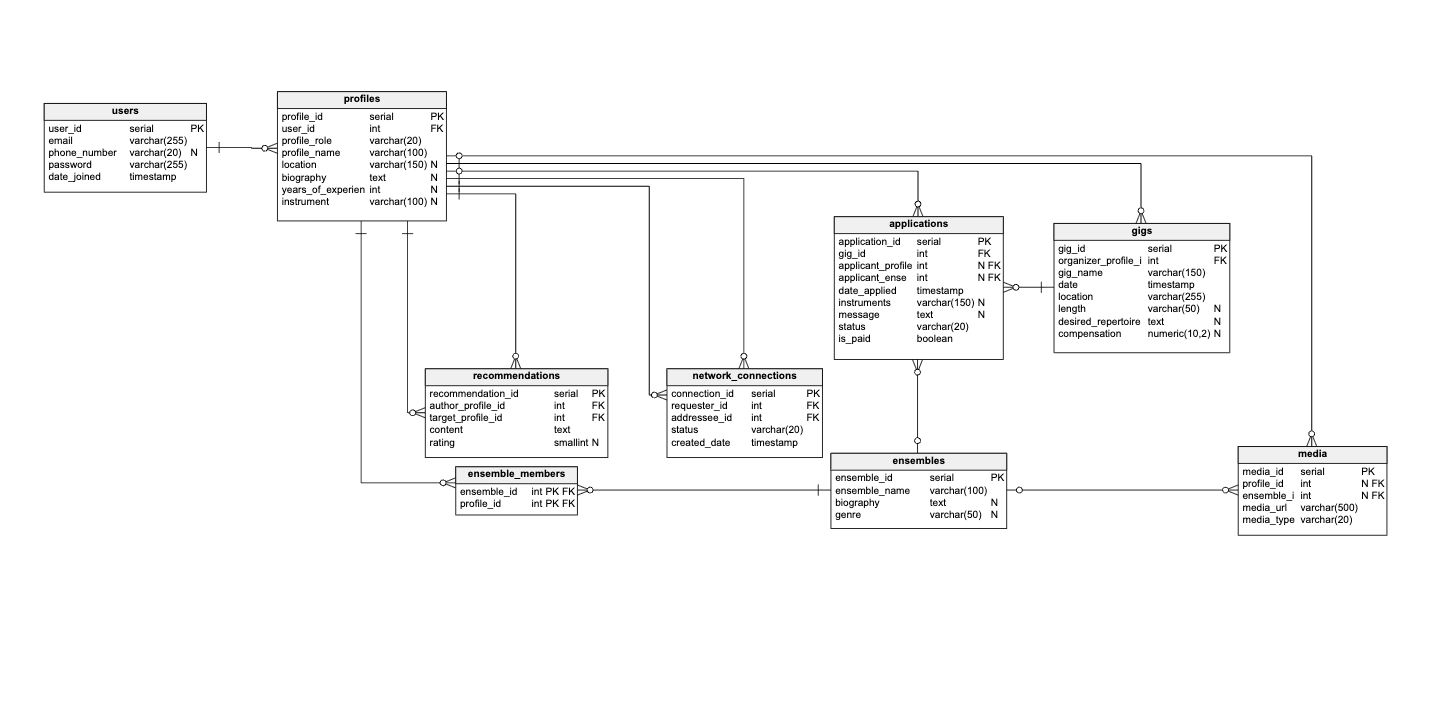
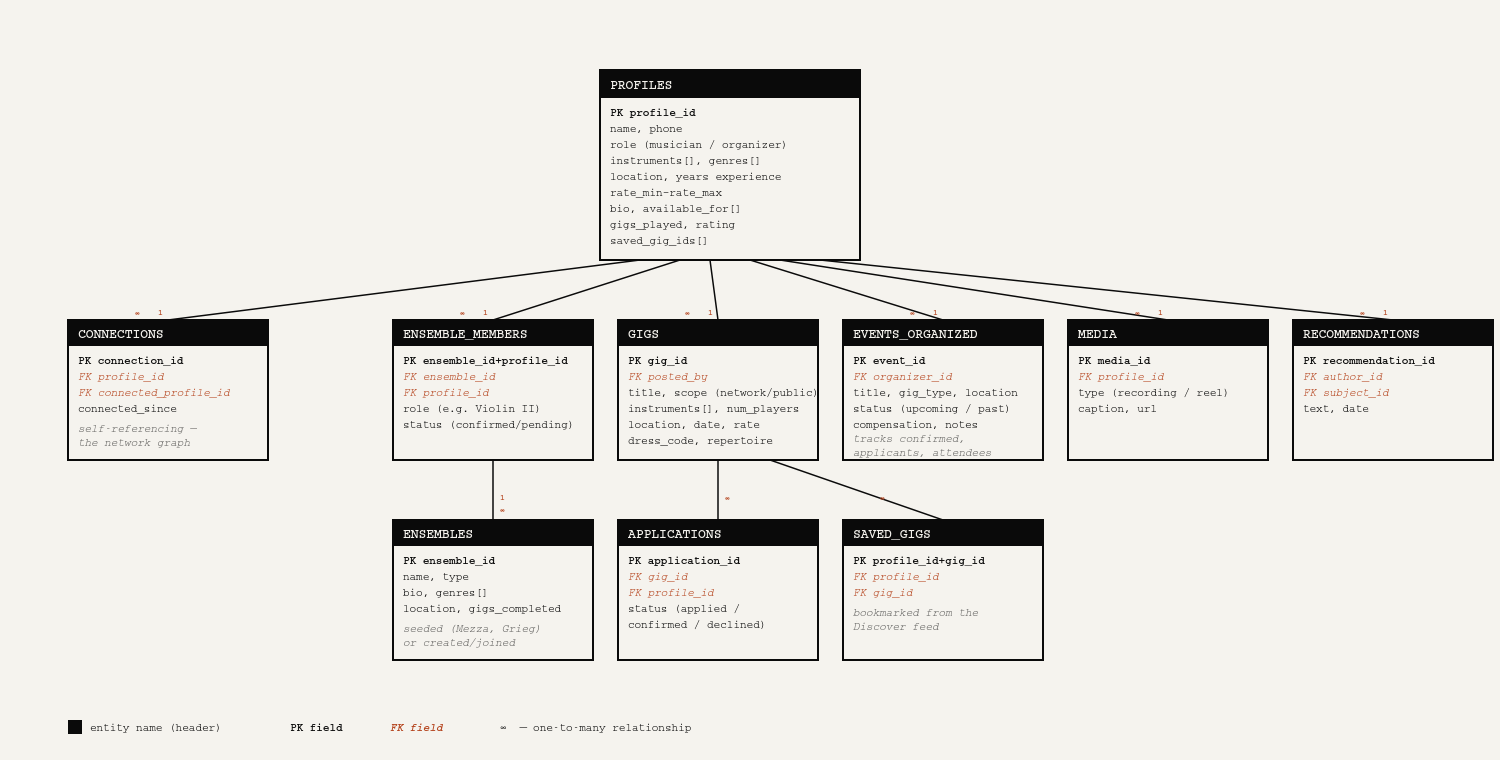
Add files via upload

diff --git a/opus.html b/opus.html
@@ -121,55 +121,90 @@
       <h3>Key Features</h3>
       <div class="feature-grid">
         <div class="feature-item">
-          <h4>Professional Profiles</h4>
-          <p>Headshot, instruments, experience, genres, recordings, availability, rates, and
-          reviews — helping organizers evaluate beyond a resume.</p>
+          <h4>Searchable, Filterable Gig Board</h4>
+          <p>A search bar and filter popup (instrument, number of players, location) sit above
+          an In-Network / Public toggle, so musicians can narrow the feed to opportunities
+          surfaced through their connections or browse the general board. Every card is
+          bookmarkable without opening it.</p>
         </div>
         <div class="feature-item">
-          <h4>Ensemble Profiles</h4>
-          <p>String quartets, jazz trios, bands, and chamber groups can be booked as a complete
-          unit instead of contacting each musician separately.</p>
+          <h4>Fully Data-Driven Gig Detail</h4>
+          <p>Every posting has its own real instruments-needed, dress code, repertoire, payment,
+          and apply-deadline info, plus a "why this feels safe" network-trust section and an
+          Apply button labeled for the right applicant — an ensemble or the musician themselves.</p>
         </div>
         <div class="feature-item">
-          <h4>Smart Gig Board</h4>
-          <p>Detailed postings — date, budget, instruments, dress code, repertoire — filterable
-          by location, instrument, genre, and compensation.</p>
+          <h4>Organize &amp; Manage Events</h4>
+          <p>Organizers post events through a slide-up form, then track them with a check or X
+          for confirmed vs. still-open, tap in to see applicants or confirmed musicians, and
+          revisit past events to see who actually performed.</p>
+        </div>
+        <div class="feature-item">
+          <h4>Network-Gated Profiles</h4>
+          <p>Contact info is always public, but biography, genres, and reviews stay behind a
+          "Connect to see more" panel until that person is actually in your network — with a
+          one-tap request to add them straight from a stranger's profile.</p>
+        </div>
+        <div class="feature-item">
+          <h4>Real Ensemble Confirmation Flow</h4>
+          <p>Creating a new ensemble adds you instantly as founder; requesting to join an
+          existing one requires every current member to confirm, simulated with staggered
+          live responses — and a single decline blocks the request outright.</p>
+        </div>
+        <div class="feature-item">
+          <h4>Multi-Profile Accounts</h4>
+          <p>Every profile lives under one phone number and is switchable anytime from Settings
+          or an avatar strip. A guided 10-step wizard onboards a brand-new profile, musician or
+          event organizer, from scratch.</p>
+        </div>
+        <div class="feature-item">
+          <h4>Editable, Data-Driven Profile</h4>
+          <p>Bio, genres, an editable "Available For" chip list, media uploads, linked ensembles,
+          and organized events all render from the same profile object the onboarding wizard
+          writes to — edits update everywhere at once.</p>
+        </div>
+        <div class="feature-item">
+          <h4>Peer Recommendations</h4>
+          <p>A recommendation composer lives on every connection row — in your network list or on
+          an ensemble member's own page — replacing an empty "no reviews yet" state with a real,
+          attributed endorsement.</p>
         </div>
         <div class="feature-item">
           <h4>Trust Through Networks</h4>
-          <p>Organizers see mutual connections, shared ensembles, and past collaborations —
-          rewarding real professional relationships.</p>
-        </div>
-        <div class="feature-item">
-          <h4>Integrated Messaging</h4>
-          <p>Built-in chat with hire confirmation, creating a reliable record without
-          conversations scattered across apps.</p>
-        </div>
-        <div class="feature-item">
-          <h4>Payment Tracking</h4>
-          <p>Organizers mark musicians as paid post-performance, giving both sides visibility
-          into outstanding compensation.</p>
+          <p>Mutual connections, shared ensembles, and past collaborations surface throughout —
+          on gig cards, in gig detail, and across profiles — rewarding real professional
+          relationships instead of ignoring them.</p>
         </div>
       </div>
     </div>
 
     <div class="case-block">
       <h3>Information Architecture &amp; Database Design</h3>
-      <p>I modeled the relationships connecting users, profiles, ensembles, gigs, applications,
-      recommendations, and professional networks, then translated that model into a relational
-      database — Users, Profiles, Network Connections, Ensembles, Ensemble Members, Gigs,
-      Applications, Media, and Recommendations — to validate that every feature could be
-      supported by a scalable backend.</p>
-      <img class="zoomable" src="conceptual-model.png" alt="Opus conceptual data model and relational database schema" style="width:100%; border:1px solid var(--line); border-radius:12px; margin-top:1.2rem;">
+      <p>I modeled the relationships connecting profiles, the network graph, ensembles and their
+      membership, gigs and applications, self-organized events, saved gigs, media, and peer
+      recommendations, then translated that model into a relational schema — <strong>Profiles</strong>
+      sits at the center, with <strong>Connections</strong> forming a self-referencing network graph,
+      <strong>Ensemble Members</strong> and <strong>Applications</strong> as many-to-many join tables,
+      and <strong>Gigs</strong>, <strong>Events Organized</strong>, <strong>Ensembles</strong>,
+      <strong>Media</strong>, <strong>Saved Gigs</strong>, and <strong>Recommendations</strong> each
+      tracing back to the profile that owns, posted, or wrote them — to validate that every feature
+      in the prototype could be supported by a scalable backend.</p>
+      <img class="zoomable" src="conceptual-model.png" alt="Opus conceptual data model and relational database schema" style="width:100%; border:1px solid var(--line); margin-top:1.2rem;">
     </div>
 
     <div class="case-block">
       <h3>Interactive Prototype</h3>
-      <p>A working mockup of the Opus mobile experience — browse the gig board, view a
-      musician's profile, and see how ensemble booking and trust signals show up in the
-      interface. Scroll and tap within the frame below, or open it full-screen.</p>
-      <div style="margin-top:1.2rem; border:1px solid var(--line); border-radius:16px; overflow:hidden; background:#14161d;">
-        <iframe src="opus-prototype.html" title="Opus interactive prototype" style="width:100%; height:820px; border:0; display:block;" loading="lazy"></iframe>
+      <p>A working mockup of the Opus mobile experience — search and filter the gig board,
+      apply to a posting, organize your own event, browse a network-gated profile, and see
+      ensemble booking and trust signals show up throughout the interface. Scroll and tap
+      within the frame below, or open it full screen using the button in the top-right corner.</p>
+      <div id="protoEmbed" style="position:relative; margin-top:1.2rem; border:1px solid var(--line); overflow:hidden; background:#14161d;">
+        <button id="protoFullscreenBtn" onclick="toggleProtoFullscreen()" aria-label="Open prototype full screen"
+          style="position:absolute; top:14px; right:14px; z-index:10; width:38px; height:38px; background:rgba(0,0,0,0.55); border:1px solid rgba(255,255,255,0.3); color:#fff; display:flex; align-items:center; justify-content:center; cursor:pointer; transition:background 0.2s ease;"
+          onmouseover="this.style.background='rgba(0,0,0,0.85)'" onmouseout="this.style.background='rgba(0,0,0,0.55)'">
+          <svg id="protoFullscreenIcon" width="17" height="17" viewBox="0 0 24 24" fill="none" stroke="currentColor" stroke-width="2" stroke-linecap="round" stroke-linejoin="round"><path d="M8 3H5a2 2 0 0 0-2 2v3m18 0V5a2 2 0 0 0-2-2h-3m0 18h3a2 2 0 0 0 2-2v-3M3 16v3a2 2 0 0 0 2 2h3"/></svg>
+        </button>
+        <iframe id="protoIframe" src="opus-prototype.html" title="Opus interactive prototype" allowfullscreen style="width:100%; height:1000px; border:0; display:block;" loading="lazy"></iframe>
       </div>
       <a href="opus-prototype.html" target="_blank" rel="noopener" class="back-link" style="margin-top:1rem; margin-bottom:0;">Open prototype in a new tab &rarr;</a>
     </div>
@@ -179,8 +214,8 @@
       <ul class="case-list">
         <li><strong>Build trust</strong> — recommendations, shared connections, and past
         collaborations help organizers hire with confidence.</li>
-        <li><strong>Reduce friction</strong> — discovery, applications, messaging, scheduling,
-        and payment tracking happen in one place.</li>
+        <li><strong>Reduce friction</strong> — discovery, applications, event organizing, and
+        network management happen in one place.</li>
         <li><strong>Support real hiring behavior</strong> — Opus makes existing professional
         relationships visible and useful, rather than ignoring them.</li>
       </ul>
@@ -189,9 +224,11 @@
     <div class="case-block">
       <h3>Reflection</h3>
       <p>This project deepened my understanding of designing marketplace products that serve two
-      distinct user groups with different goals, and gave me hands-on experience translating
-      product requirements into information architecture and relational database models. Next
-      steps I'd explore: built-in payment processing, verified references, calendar sync,
+      distinct user groups with different goals, and gave me hands-on experience translating a
+      growing product surface — search and filtering, event organizing, network-gated privacy,
+      a multi-step confirmation flow, multi-profile accounts — into information architecture and
+      a relational database model that could actually support it. Next steps I'd explore:
+      built-in payment processing, real phone verification, verified references, calendar sync,
       contract generation, AI-powered recommendations, and reputation scoring.</p>
     </div>
   </div>
@@ -210,5 +247,17 @@
 </footer>
 
 <script src="lightbox.js"></script>
+<script>
+  function toggleProtoFullscreen(){
+    var iframe = document.getElementById('protoIframe');
+    if(!document.fullscreenElement && !document.webkitFullscreenElement){
+      if(iframe.requestFullscreen){ iframe.requestFullscreen(); }
+      else if(iframe.webkitRequestFullscreen){ iframe.webkitRequestFullscreen(); }
+    } else {
+      if(document.exitFullscreen){ document.exitFullscreen(); }
+      else if(document.webkitExitFullscreen){ document.webkitExitFullscreen(); }
+    }
+  }
+</script>
 </body>
 </html>
